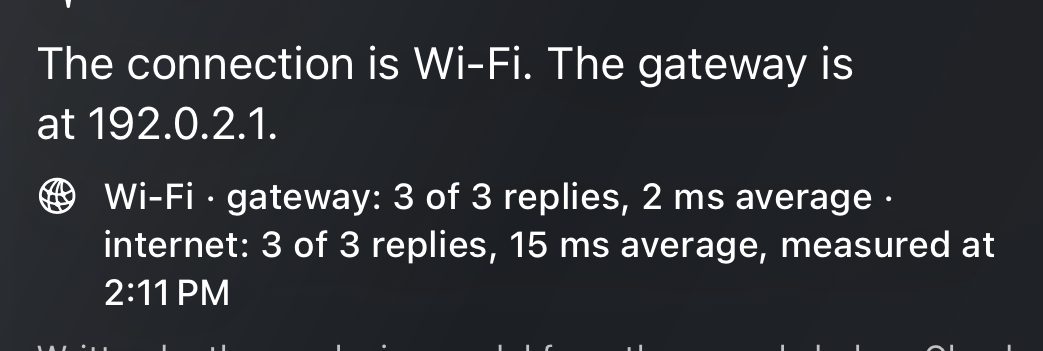
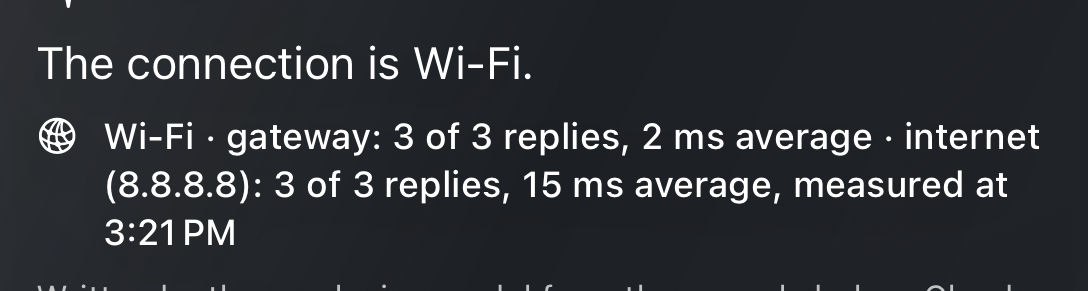
Evidence for #579 after the #627 review round

diff --git a/probe/Sources/Probe/main.swift b/probe/Sources/Probe/main.swift
@@ -46,7 +46,7 @@ let homeNetwork = NetworkProfile(id: home, interfaceName: "en0", ipAddress: "192
                                         interfaceAddress: NetworkUtilities.ipv4ToUInt32("192.168.1.10")!, netmask: 0xFFFF_FF00),
   connectionType: .wifi, name: "Home", gatewayIP: "192.168.1.1", subnet: "192.168.1.0/24", isLocal: true, discoveryMethod: .auto)
 let live = AskLiveTools(pinger: FixturePinger(), currentNetwork: { homeNetwork },
-  connection: { .init(type: .wifi, gatewayIP: "192.168.1.1") }, isScanning: { false }, now: { now })
+  connection: { .init(type: .wifi, gatewayIP: "192.168.1.1") }, isScanning: { false }, joinedAt: { now.addingTimeInterval(-3600) }, now: { now })
 let snapshot = AskSnapshot(devices: devices, events: events, networkProfileID: home, lastScan: now.addingTimeInterval(-180), now: now, calendar: calendar)
 let staleDevices = devices.map { d in AskDevice(id: d.id, displayName: d.displayName, deviceType: d.deviceType, maker: d.maker, ipAddress: d.ipAddress,
   status: d.status, lastSeen: d.status == .online ? now.addingTimeInterval(-2400) : d.lastSeen, lastLatency: d.lastLatency, latencyHistory: d.latencyHistory) }
